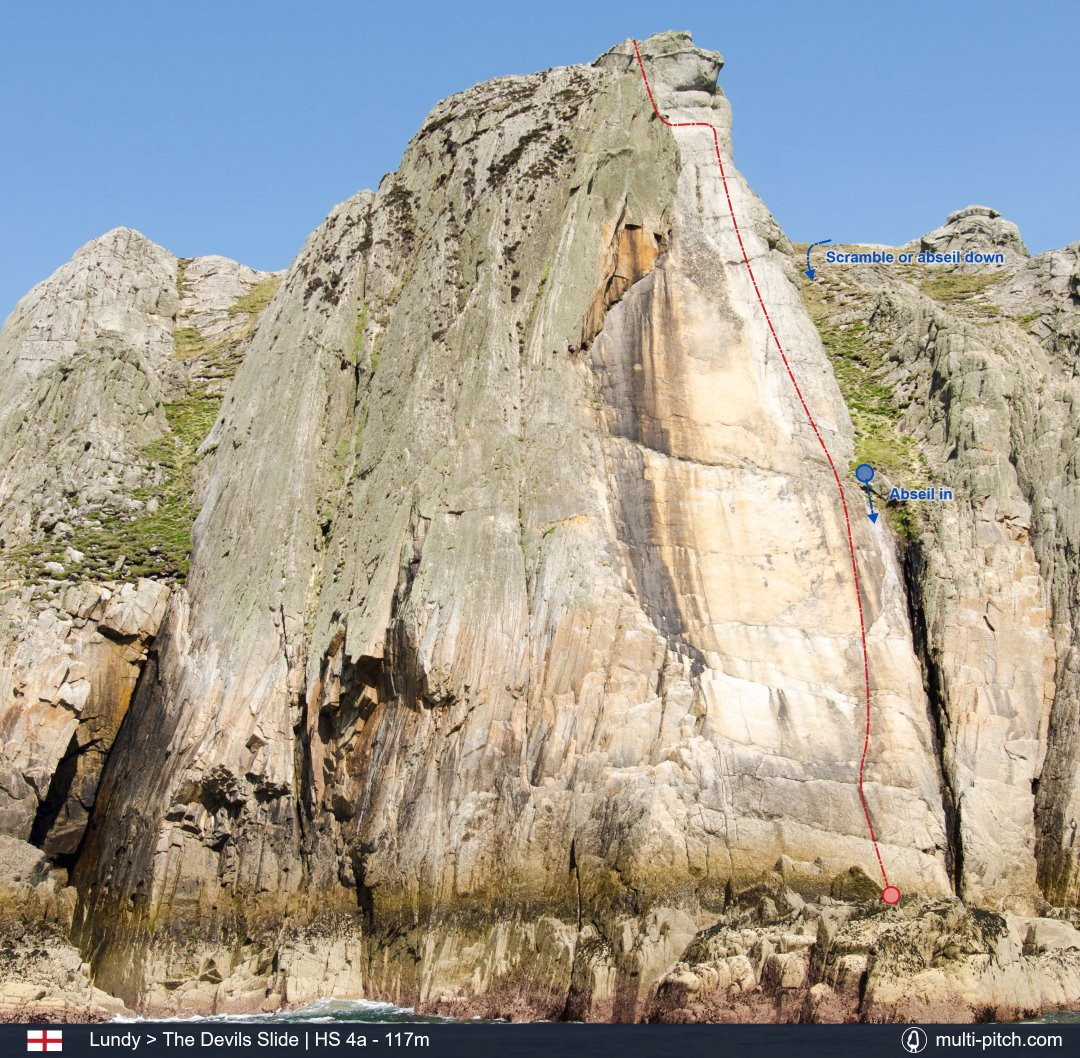
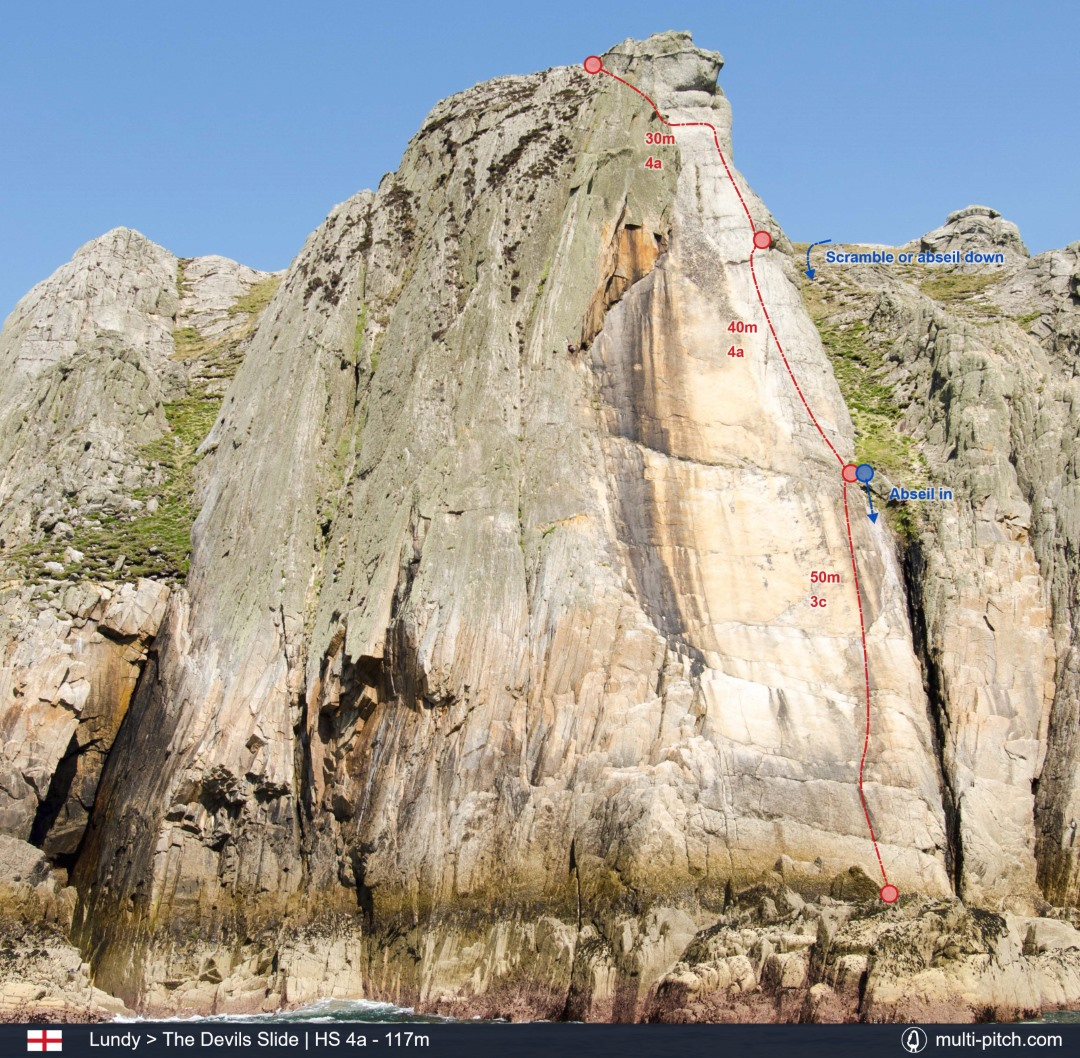
some seo updates and more info on the Lundy topo

diff --git a/website/data/topos/8.js b/website/data/topos/8.js
@@ -5,21 +5,17 @@ var topoData = {
     "belaySize":24,
     "route":[
         [2588,2599],[2540,2436],[2493,2269],[2532,2128],[2513,1839],[2485,1651],
-        [2450,1404],[2345,1199],[2165,762],[2082,431],[2080,359],[1997,361],
-        [1928,367],[1885,267],[1716.0,186.7]
+        [2450,1404],[2475.0,1376.5],[2345,1199],[2165,762],[2217,698],[2082,431],
+        [2080,359],[1997,361],[1928,367],[1885,267],[1716.0,186.7]
     ],
     "pitches":[
+        {"belayPosition":[2587,2599],"labelPosition":[null,null],"grade":"","height":""},
+        {"belayPosition":[2475.0,1376.5],"labelPosition":[2356.3, 1693.5],"grade":"3c","height":"50m"},
+        {"belayPosition":[2217,698],"labelPosition":[2116.3, 966.9],"grade":"4a","height":"40m"},
+        {"belayPosition":[1725,189],"labelPosition":[1876.7, 418.2],"grade":"4a","height":"30m"}
     ],
     "decent":[
         {"anchor":[2515,1376],"labelPosition":[2587,1451.5],"path":[[2520,1394.5],[2540,1504]],"label":"Abseil in"},
         {"anchor":[null,null],"labelPosition":[2402,763],"path":[[2415,699],[2335,719],[2358,796]],"label":"Scramble or abseil down"}
     ]
 }
-/*
-"pitches":[
-    {"belayPosition":[2587,2599],"labelPosition":[null,null],"grade":"","height":""},
-    {"belayPosition":[2452,1383],"labelPosition":[null,null],"grade":"","height":""},
-    {"belayPosition":[2217,698],"labelPosition":[null,null],"grade":"","height":""},
-    {"belayPosition":[1725,189],"labelPosition":[null,null],"grade":"","height":""}
-],
-*/

diff --git a/website/components/climbCard.js b/website/components/climbCard.js
@@ -517,7 +517,9 @@ function climbCard(climb, climbImgs, guideBooks, weatherData, referanceLines) {
                     <div class="col">
                         <h2 tabindex="0">The Route Topography</h2>
                         <p>
-                            This is the route <strong>${climb.routeName}</strong> on ${climb.cliff} in ${climb.county}, ${climb.country}. Clicking the image will load it full screen.
+                            This is the route <strong>${climb.routeName}</strong> on ${climb.cliff} in ${climb.county}, ${climb.country}.
+                            It represents ${climb.length}m of ${climb.rock} rock climbing, usually over ${climb.pitches} pitches, of a max grade of ${climb.tradGrade}&nbsp;${techGrade}.
+                            Clicking the image will load the <a href="/${topoImg.url}" target="blank">full screen high resolution ${climb.routeName} climb topo</a>.
                         </p>
                         ${routeTopoModule}
                         <aside>
